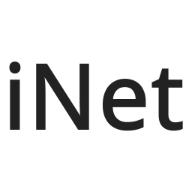
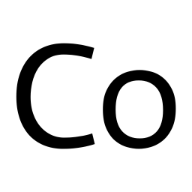
change project name

Changed region(s): [[0.0312, 0.2188, 0.5, 0.7812], [0.5312, 0.3438, 0.9688, 0.7812]]

diff --git a/tailwind.config.ts b/tailwind.config.ts
@@ -1,24 +1,6 @@
 import type { Config } from 'tailwindcss'
-import colors from 'tailwindcss/colors'
 
 export default {
   content: ['./index.html', './src/**/*.{vue,js,ts,jsx,tsx}'],
   darkMode: 'class',
-  theme: {
-    extend: {
-      colors: {
-        gray: colors.stone,
-        theme: colors.rose,
-      },
-      listStyleType: {
-        square: 'square',
-      },
-    },
-    fontFamily: {
-      ui: ['sans-serif'],
-      content: ['sans-serif'],
-      code: ['monospace'],
-      logo: ['sans-serif'],
-    },
-  },
 } satisfies Config

diff --git a/index.html b/index.html
@@ -8,7 +8,7 @@
     <title>iNet</title>
     <meta
       name="description"
-      content="Programming with interaction nets."
+      content="Conceptor Website"
     />
   </head>
 

diff --git a/README.md b/README.md
@@ -1,7 +1,6 @@
-# iNet Website
+# Conceptor Website
 
-[ [Visit](https://inet.run)
-| [Main Repo](https://github.com/cicada-lang/inet-js) ]
+[ [Main Repo](https://github.com/cicada-lang/conceptor) ]
 
 ## Development
 

diff --git a/TODO.md b/TODO.md
@@ -1,2 +1,2 @@
-change project name
 remove code for inet
+try jsx in vue
